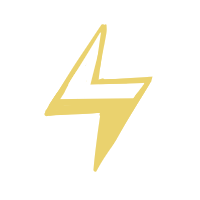
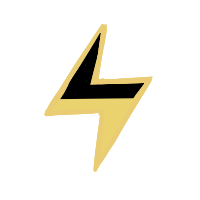
energy state changes

diff --git a/labScript.js b/labScript.js
@@ -66,6 +66,7 @@ function tempGood() {
 
 function energyGood() {
     $('#energy').css('background-image', 'url("../images/energy-icon.png")');
+    $('.energyBar').html('<img src="images/energyFull.png">');
 }
 
 function levelsGood() {
@@ -75,6 +76,21 @@ function levelsGood() {
 function cloneGood() {
     $('#cloning').css('background-image', 'url("../images/clone-icon.png")');
 }
+
+//Each setting has a 0/1 setting to help determine if the guy is ok or not
+var energyTally = 0;
+
+$('.energyBar').on('click', function () {
+    energyGood();
+
+    energyTally = 1;
+    console.log(energyTally);
+
+    //Eventually: if energy + temp + levels = 3, then goodstate
+    /*if (tallyTrack > 4) {
+        goodState();
+    }*/
+});
 
 
 //This function is used to switch the character and the apparatus to their risky/warning states when an element is low
@@ -89,7 +105,10 @@ function tempAlert() {
 }
 
 function energyAlert() {
+    energyTally = 0;
+
     $('#energy').css('background-image', 'url("../images/energy-icon-alert.png")');
+    $('.energyBar').html('<img src="images/energyHalf.png">');
 }
 
 function levelsAlert() {

diff --git a/labStyle.css b/labStyle.css
@@ -113,9 +113,11 @@ main {
 
 .showBorder {
     border-style: solid;
-    padding: 10px;
+    padding: 5px;
     align-items: center;
     text-align: center;
+    align-content: center;
+    line-height: 0.6;
 }
 
 .rightLargerGrid {
@@ -190,7 +192,7 @@ main {
 
     background-color: var(--Turquoise);
     color: black;
-    padding: 20px;
+    padding: 0px;
     text-align: center;
     justify-content: center;
     align-items: center;
@@ -227,6 +229,19 @@ main {
     margin: 10px;
 }
 
+.energyBar {
+    display: block;
+    margin: 0 auto;
+    justify-content: center;
+    text-align: center;
+    align-items: center;
+    max-width: 40%;
+    margin-top: -20px;
+    position: relative;
+
+    cursor: pointer;
+}
+
 /* Remove these things remember! */
 div {
     border-style: none;
@@ -249,4 +264,10 @@ h3 {
     font-family: Oxanium;
     font-weight: 200;
     font-size: 26px;
+}
+
+h4 {
+    font-family: Oxanium;
+    font-weight: 200;
+    font-size: 20px;
 }

diff --git a/index.html b/index.html
@@ -56,12 +56,19 @@
             <div class="rightMenu">
                 <div>Temp slider</div>
                 <div class="twoSecGrid">
-                    <div class="showBorder">Energy levels</div>
+                    <div class="showBorder">
+                        <h2>ENERGY</h2>
+                        <div class="energyBar">
+                            <img src="images/energyFull.png">
+                        </div>
+                    </div>
                     <div class="showBorder">Stability levels</div>
                 </div>
                 <div class="rightLargerGrid">
                     <div>
-                        <div class="cloneButton">CLONE</div>
+                        <div class="cloneButton">
+                            <h4>CLONE</h4>
+                        </div>
                         <div class="cloneUpdate">
                             <h2>CLONE STATUS:</h2>
                             <h3>NO CLONE PRESENT</h3>
